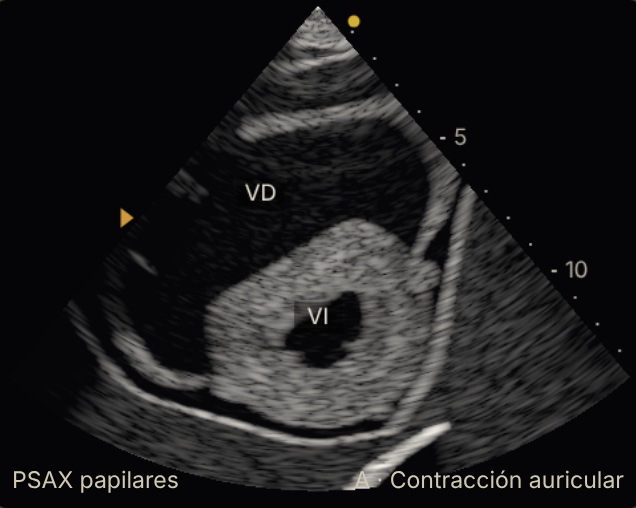
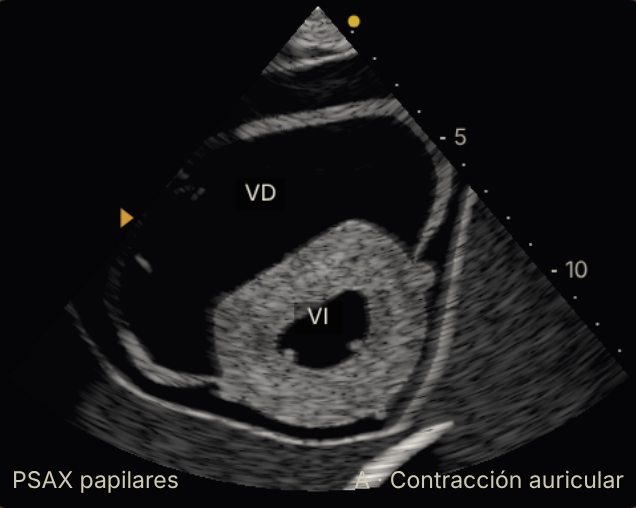
mv-eco P5a2: borde endocárdico nítido del VI pequeño (dibujo nuevo)

diff --git a/js/data/eco-tejidos.js b/js/data/eco-tejidos.js
@@ -41,7 +41,8 @@ export const CAIDA_PROFUNDIDAD = { desdeMm: 20, dbPorMm: 0.06, origen: 'ilustrat
 // del abanico (dB en el borde, ∝ e²; ilustrativo; la teoría de la sonda de sector, POCUS I cap. 2, p. 41 impresa, no da cifras).
 export const CAIDA_LATERAL = { dbBorde: 5, topeDb: 5, origen: 'ilustrativo' };
 // Borde endocárdico (dibujo nuevo): interfaz sangre-tejido, unos dB sobre el miocardio medio, sin ser una línea dibujada (ilustrativo).
-export const BORDE_ENDO = { db: 1, origen: 'ilustrativo' };
+// extraPequenoDb: el borde del VI de diámetro <52 mm (Rm < 26 mm) sube hasta +5 dB más (+6 en total); el DTD normal es 42-58 mm (Lang 2015, Tabla 2, p. 6)
+export const BORDE_ENDO = { db: 1, extraPequenoDb: 5, rmDesdeMm: 26, rmRangoMm: 8, mezclaSangre: 0.8, origen: 'ilustrativo' };
 // Surco AV, coronarias, venas y seno coronario del dibujo nuevo: cortan el plano como bandas que se cruzan detrás de la aurícula (la «cruz»
 // del PLAX); se apagan unos dB para que no compitan con la pared posterior (ilustrativo).
 export const SURCOS_NUEVO = { db: -9, origen: 'ilustrativo' };

diff --git a/autonomo/bloques/mv-eco/capturas-realismo/cifras.md b/autonomo/bloques/mv-eco/capturas-realismo/cifras.md
@@ -13,32 +13,6 @@
 - motor: FC 94 · PAM 76 · PA 85/undefined · GC 3.02 · PVC 15.5
 - pantalla: mezcla
 
-## hp-psax (hpcronica, g=1, psaxPm, dibujo 2)
-- fase: A · Contracción auricular
-- titulo: PSAX papilares
-- grav: resistencia pulmonar ×12,0, pared del VD ×2,4. Ilustrativo: 0 % es el corazón normal y 100 %, el VD que claudica.
-- Último latido: PA 85/67 (PAM 76) · FC 94 · GC 3.0 L/min · PVC 15
-- VI en esta fase: 60 mL · 9 mmHg
-- VD en esta fase: 228 mL · 20 mmHg
-- Aorta: 70 mmHg · AP 46
-- Aurículas: AI 23 · AD 42 mL
-- VI/VD telediastólico (el que dibuja la imagen): VI 60 mL · VD 228 mL
-- motor: FC 94 · PAM 76 · PA 85/undefined · GC 3.02 · PVC 15.5
-- pantalla: mezcla
-
-## tep-a4c (tep, g=1, a4c, dibujo 2)
-- fase: A · Contracción auricular
-- titulo: A4C
-- grav: resistencia pulmonar ×6,6. Riesgo alto (masivo): disfunción del VD con inestabilidad hemodinámica, PAM <70 mmHg (Marino cap. 22, PDF p. 7; cap. 14, PDF p. 2). Ilustrativo: 0 % es el corazón normal y 100 %, el TEP de alto riesgo a fondo (masivo: hipotensión, PAM <70 mmHg; Marino cap. 22, PDF p. 7, y cap. 14, PDF p. 2).
-- Último latido: PA 65/53 (PAM 59) · FC 119 · GC 2.3 L/min · PVC 9
-- VI en esta fase: 29 mL · 2 mmHg
-- VD en esta fase: 219 mL · 18 mmHg
-- Aorta: 57 mmHg · AP 23
-- Aurículas: AI 30 · AD 32 mL
-- VI/VD telediastólico (el que dibuja la imagen): VI 45 mL · VD 219 mL
-- motor: FC 119 · PAM 59 · PA 65/undefined · GC 2.34 · PVC 9.4
-- pantalla: mezcla
-
 ## tep-psax (tep, g=1, psaxPm, dibujo 2)
 - fase: A · Contracción auricular
 - titulo: PSAX papilares
@@ -50,19 +24,6 @@
 - Aurículas: AI 30 · AD 32 mL
 - VI/VD telediastólico (el que dibuja la imagen): VI 45 mL · VD 219 mL
 - motor: FC 119 · PAM 59 · PA 65/undefined · GC 2.34 · PVC 9.4
-- pantalla: mezcla
-
-## derrame-sc4c (derrame, g=1, sc4c, dibujo 2)
-- fase: A · Contracción auricular
-- titulo: SC 4C
-- grav: 377 mL de derrame. Ilustrativo: 0 % es el corazón normal y 100 %, el taponamiento a fondo.
-- Último latido: PA 66/54 (PAM 60) · FC 118 · GC 2.4 L/min · PVC 10
-- VI en esta fase: 27 mL · 10 mmHg
-- VD en esta fase: 45 mL · 9 mmHg
-- Aorta: 58 mmHg · AP 14
-- Aurículas: AI 30 · AD 18 mL
-- VI/VD telediastólico (el que dibuja la imagen): VI 44 mL · VD 46 mL
-- motor: FC 118 · PAM 60 · PA 66/undefined · GC 2.36 · PVC 10
 - pantalla: mezcla
 
 ## Errores de consola
